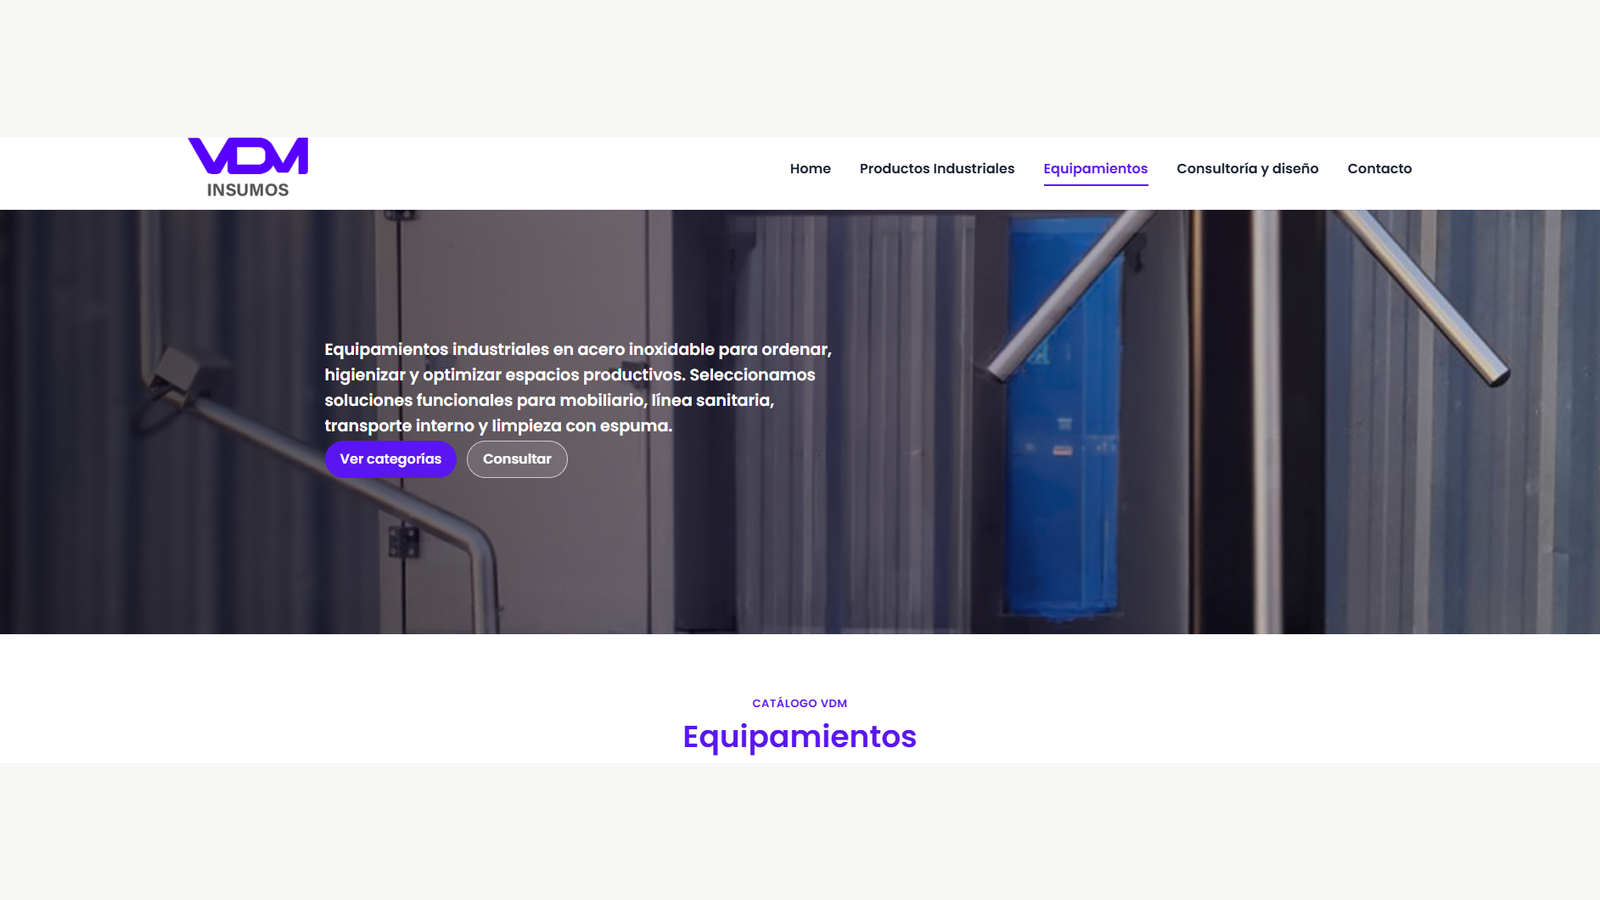
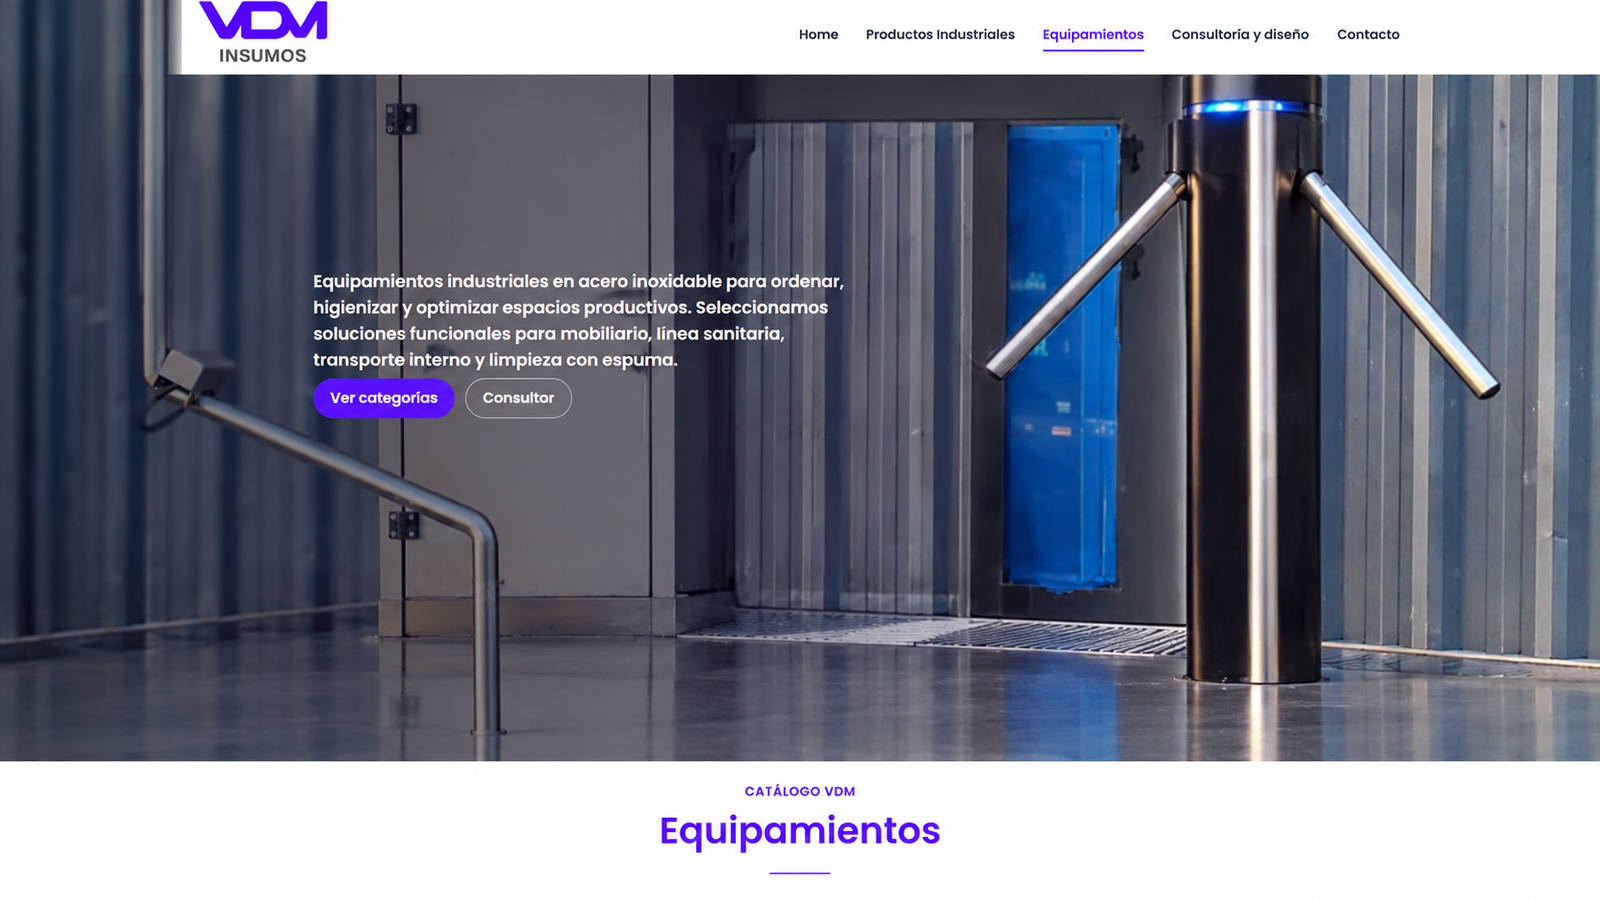
fix: llenar portadas sin bandas ni recortes

diff --git a/src/data/content.ts b/src/data/content.ts
@@ -114,7 +114,7 @@ export const projects = [
       { title: 'Experiencia', text: 'Navegación directa y adaptable a distintos tamaños de pantalla.' },
     ],
     gallery: [], real: true, featured: true, websiteUrl: 'https://www.zeusmasa.com.ar/',
-    previewImage: '/proyectos/zeus-masa/portada-16x9.png',
+    previewImage: '/proyectos/zeus-masa/portada-16x9.png?v=outpaint-1',
   },
   {
     slug: 'vdm-equipamientos', title: 'VDM Insumos', category: 'Diseño web · UI/UX', description: 'Catálogo digital de equipamientos industriales en acero inoxidable.',
@@ -126,7 +126,7 @@ export const projects = [
       { title: 'Catálogo', text: 'Búsqueda y navegación para encontrar productos y realizar consultas.' },
     ],
     gallery: [], real: true, websiteUrl: 'https://www.vdminsumos.com/equipamientos.html',
-    previewImage: '/proyectos/vdm-equipamientos/portada-16x9.png',
+    previewImage: '/proyectos/vdm-equipamientos/portada-16x9.png?v=outpaint-1',
   },
   {
     featured: true,
